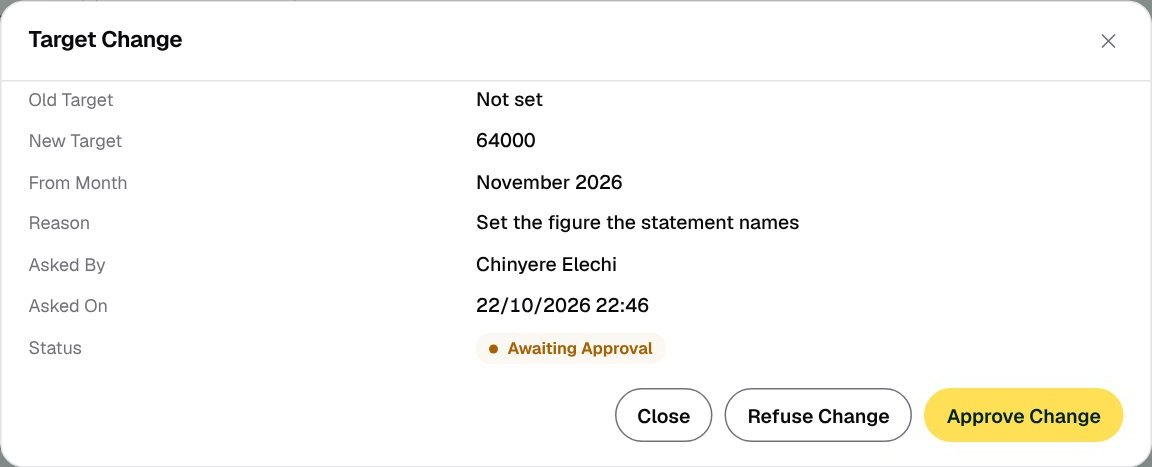
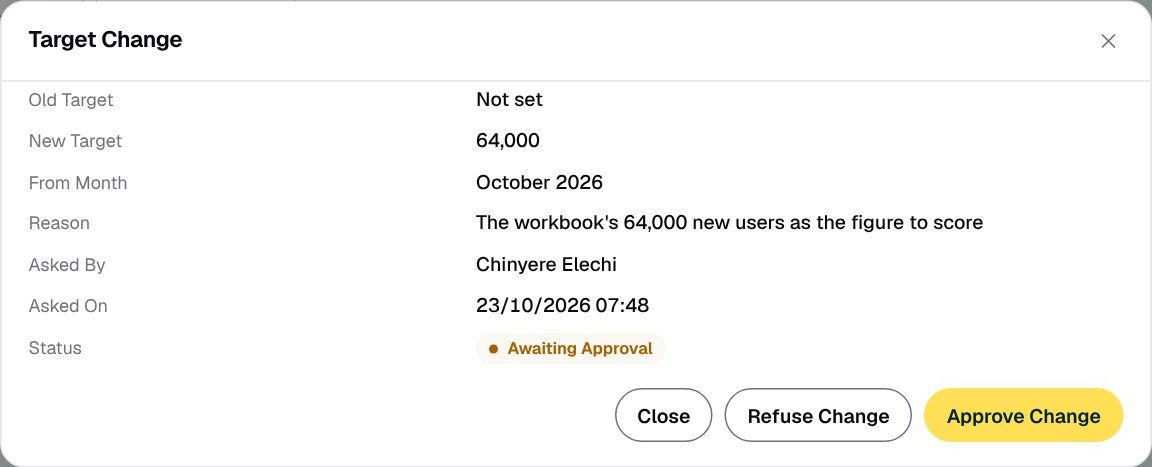
docs(performance): the training guide after PRs 132 and 133 (#134)
Set Up Quarter (with its screenshot), Edit and Delete on goals, objectives and key results,
Feeds, Set Target on TBC targets, a line's Change Target, Send Scorecard decided on Waiting On
You, Score Without Check-In and Withdraw Review, across pages 2 to 16; the key result panel and
the target change sheet retaken with figures formatted (64,000). Every page still fits A4.

Claude-Session: https://claude.ai/code/session_01KTTpJwtTQQVceC2MnB9bdJ

diff --git a/docs/manual/performance-guide/template.html b/docs/manual/performance-guide/template.html
@@ -311,7 +311,7 @@ table.t td .sub{display:block;font-size:7pt;color:var(--muted);margin-top:.3mm;}
         <tr><td class="k">Objective</td><td>What a function or the company sets out to achieve this quarter (BM-O1)</td><td class="k">Line</td><td>One row of a scorecard, with its target, weight and source</td></tr>
         <tr><td class="k">Key result</td><td>A measurable result under an objective (BM-KR1.3)</td><td class="k">Auto</td><td>A line the system scores itself; the reviewer may change it with a reason</td></tr>
         <tr><td class="k">KPI</td><td>A function's operational measure, Met or Not Met each month (BM-K02)</td><td class="k">Commitment</td><td>A task promised for the month, with acceptance criteria and a fixed original date</td></tr>
-        <tr><td class="k">TBC</td><td>A provisional target, locked on the quarter's lock date</td><td class="k">Check-in</td><td>Each person's monthly report on their own lines</td></tr>
+        <tr><td class="k">TBC</td><td>A provisional target: Set Target until the quarter's lock date</td><td class="k">Check-in</td><td>Each person's monthly report on their own lines</td></tr>
         <tr><td class="k">Scored From</td><td>A company key result that takes its figures from one function key result</td><td class="k">Review</td><td>The reviewer's scores, approved by second level and closed by HR</td></tr>
         <tr><td class="k">Binding</td><td>Approved by the CEO: targets change only through Change Target</td><td class="k">Score to date</td><td>The weighted score of the lines scored so far, from 0 to 1</td></tr>
       </tbody>
@@ -328,11 +328,11 @@ table.t td .sub{display:block;font-size:7pt;color:var(--muted);margin-top:.3mm;}
     <table class="t screens">
       <thead><tr><th style="width:36mm">Screen</th><th style="width:40mm">Where</th><th style="width:38mm">Who</th><th>What happens there</th></tr></thead>
       <tbody>
-        <tr><td class="k">Performance · Goals</td><td class="path">Performance › Goals</td><td>Everyone reads; heads, Management and the CEO set</td><td>The OKR tree, Plan Approval (status, Send Plan), Waiting On You, Report Month, Confirm Score, Change Target</td></tr>
-        <tr><td class="k">Performance · Scorecards</td><td class="path">Performance › Scorecards</td><td>Managers, HR, CEO; staff see their own</td><td>Every scorecard, its sections and lines; New Scorecard; Agree Scorecard; Change Reviewer</td></tr>
+        <tr><td class="k">Performance · Goals</td><td class="path">Performance › Goals</td><td>Everyone reads; heads, Management and the CEO set</td><td>The OKR tree and its edits, Manage Quarters, Plan Approval (Send Plan), Waiting On You, Report Month, Confirm Score, Set Target, Change Target</td></tr>
+        <tr><td class="k">Performance · Scorecards</td><td class="path">Performance › Scorecards</td><td>Managers, HR, CEO; staff see their own</td><td>Every scorecard, its sections and lines; New Scorecard; Send Scorecard; Agree Scorecard; Change Reviewer; a line's Change Target</td></tr>
         <tr><td class="k">… Commitments view</td><td class="path">Scorecards › Commitments</td><td>Reviewers, heads, CEO</td><td>The month's commitments and their states; Approve Month; Export Report</td></tr>
         <tr><td class="k">Performance · KPIs</td><td class="path">Performance › KPIs</td><td>Everyone reads; heads edit their own</td><td>Each function's KPIs with formula, target and source; Record Actual</td></tr>
-        <tr><td class="k">Performance · Reviews</td><td class="path">Performance › Reviews</td><td>Reviewers, second level, HR</td><td>The month's round; each review through its chain; PIPs</td></tr>
+        <tr><td class="k">Performance · Reviews</td><td class="path">Performance › Reviews</td><td>Reviewers, second level, HR</td><td>The month's round; each review through its chain; Score Without Check-In; Withdraw Review; PIPs</td></tr>
         <tr><td class="k">Performance · Analytics</td><td class="path">Performance › Analytics</td><td>Managers, Management, CEO</td><td>Scores by month, key results by status, ratings, on-time figures, people</td></tr>
         <tr><td class="k">My Performance</td><td class="path">Self-Service › My Performance</td><td>Every employee</td><td>My score, scorecard, check-in, commitments and reviews; Agree Scorecard</td></tr>
         <tr><td class="k">Workspace · Tasks</td><td class="path">My Workspace › Tasks</td><td>Everyone</td><td>Commitments are tasks; Counts Towards; Send Commitments; initiatives and corrective actions arrive as tasks</td></tr>
@@ -344,12 +344,12 @@ table.t td .sub{display:block;font-size:7pt;color:var(--muted);margin-top:.3mm;}
         <tr><td class="k">Settings · Approvals</td><td class="path">Settings › Approvals</td><td>Administrators</td><td>The four flows: Quarter Plan, Monthly Review, Monthly Commitments, Target Change</td></tr>
         <tr><td class="k">People · Organogram</td><td class="path">People › Organogram</td><td>People administrators</td><td>Line managers and open seats, with each department's head set at set-up, decide who reviews and approves; dotted lines decide who gives input</td></tr>
         <tr><td class="k">Notifications</td><td class="path">The bell, top right</td><td>Everyone</td><td>Plans waiting, scorecards to agree, check-ins due, reviews waiting, commitments approved</td></tr>
-        <tr><td class="k">Search</td><td class="path">Ctrl K · ⌘K</td><td>Everyone</td><td>Find key results, objectives, goals, KPIs, scorecards and reviews; New Scorecard, Report Month, Start Check-In, New Commitment</td></tr>
+        <tr><td class="k">Search</td><td class="path">Ctrl K · ⌘K</td><td>Everyone</td><td>Find key results, objectives, goals, KPIs, scorecards and reviews; New Scorecard, Report Month, Start Check-In, New Commitment, Set Up Quarter</td></tr>
       </tbody>
     </table>
     </div>
     <div class="g2 wide-l" style="margin-top:3.4mm">
-      <figure class="shot cap-h" style="--h:42mm"><img src="{{img:search}}" alt="Search for BM-KR1"><figcaption><b>Search</b>Ctrl K, then a code or a word: every key result, objective, KPI and scorecard is one search away.</figcaption></figure>
+      <figure class="shot cap-h" style="--h:37mm"><img src="{{img:search}}" alt="Search for BM-KR1"><figcaption><b>Search</b>Ctrl K, then a code or a word: every key result, objective, KPI and scorecard is one search away.</figcaption></figure>
       <div class="note"><h4>Where Performance lives</h4>Sidebar: <b>People › Performance</b>, five tabs: <span class="ui">Goals</span> <span class="ui">Scorecards</span> <span class="ui">KPIs</span> <span class="ui">Reviews</span> <span class="ui">Analytics</span>. A person sees by role: staff the OKR tree and their own scorecard; a manager their team; Operations &amp; People and the CEO everyone. Phone: <b>More › Performance</b>.</div>
     </div>
   </div></div>
@@ -366,13 +366,13 @@ table.t td .sub{display:block;font-size:7pt;color:var(--muted);margin-top:.3mm;}
       <tbody>
         <tr><td class="k">Employee</td><td>Their own scorecard, check-ins, reviews and commitments; the whole OKR tree and every KPI</td><td>Agree Scorecard, Start Check-In, Send Commitments, Support Needed</td></tr>
         <tr><td class="k">Line manager</td><td>Their reporting line</td><td>Drafts scorecards, scores reviews, asks the dotted-line manager for input, approves their people's commitments, is second level for the reviewers under them</td></tr>
-        <tr><td class="k">Head of department</td><td>Their function</td><td>All a manager does, plus the function's objectives, key results and KPIs, Report Month and Send Plan</td></tr>
+        <tr><td class="k">Head of department</td><td>Their function</td><td>All a manager does, plus the function's objectives, key results and KPIs, Report Month, Set Target and Send Plan</td></tr>
         <tr><td class="k">Management · Program Manager</td><td>Everyone</td><td>The company's objectives and key results; approves the plan first for the heads they manage</td></tr>
-        <tr><td class="k">Operations &amp; People</td><td>Everyone</td><td>Approves the plan second; closes reviews; changes a reviewer; Mark Conduct; PIPs; probation outcomes; imports; opens and closes rounds</td></tr>
+        <tr><td class="k">Operations &amp; People</td><td>Everyone</td><td>Approves the plan second; closes reviews; changes a reviewer; Mark Conduct; PIPs; probation outcomes; imports; sets up quarters; opens and closes rounds; withdraws a leaver's review</td></tr>
         <tr><td class="k">CEO</td><td>Everyone</td><td>Organisational goals; approves the plan last and every target change; Confirm Score; the heads' commitments; Analytics</td></tr>
       </tbody>
     </table>
-    <p class="small" style="margin-top:1.4mm">A dotted-line manager gives input on a review, never an approval. Who reviews whom comes from People: the reviewer is the person's line manager, or the person above a vacant seat. A plan stage or target change reaches its approver on the bell and Home › Need You, and is decided on <span class="path">Goals › Waiting On You</span> (see 7.1).</p>
+    <p class="small" style="margin-top:1.4mm">A dotted-line manager gives input on a review, never an approval. Who reviews whom comes from People: the reviewer is the person's line manager, or the person above a vacant seat. A plan stage, a mid-quarter scorecard or a target change reaches its approver on the bell and Home › Need You, and is decided on <span class="path">Goals › Waiting On You</span> (see 7.1).</p>
 
     <h2 class="sec"><span class="n">3.2</span>What Performance connects to</h2>
     <div class="hub">
@@ -403,9 +403,10 @@ table.t td .sub{display:block;font-size:7pt;color:var(--muted);margin-top:.3mm;}
         <h3 class="sub">Reading the screen</h3>
         <ul class="ticks">
           <li><b>The figures</b>: Company Score (the company's, for the quarter), then On Track, In Recovery and Awaiting Report for the function picked in <span class="ui">Function</span>.</li>
-          <li><b>Organisational Goals</b>: the year's goals, recorded by the CEO with <span class="ui">New Goal</span>.</li>
+          <li><b>Organisational Goals</b>: the year's goals, recorded by the CEO with <span class="ui">New Goal</span> and changed with <span class="ui">Edit Goal</span>.</li>
           <li><b>Codes</b> follow the workbook: CO for the company, then TBO, BM, PG and PC for the functions. They freeze when the plan binds.</li>
-          <li><span class="pill plan">TBC</span> a provisional target. It locks on the quarter's lock date; a figure is set with Change Target.</li>
+          <li><span class="pill plan">TBC</span> a provisional target. Until the quarter's lock date its owner or the head sets it with <span class="ui">Set Target</span>, no approval needed; after that, Change Target.</li>
+          <li><b>Editing</b>: while the plan is draft or returned, an objective has <span class="ui">Edit Objective</span> and <span class="ui">Delete Objective</span>, a key result <span class="ui">Edit Key Result</span> and <span class="ui">Delete Key Result</span>. A key result's <b>Feeds</b> names the company key results it serves.</li>
           <li><b>Scored From</b>: a company key result wholly delivered by one function key result takes its figures, so nothing is entered twice.</li>
         </ul>
       </div>
@@ -445,9 +446,9 @@ table.t td .sub{display:block;font-size:7pt;color:var(--muted);margin-top:.3mm;}
       </div>
     </div>
     <div class="g2" style="margin-top:3mm">
-      <div class="note warn"><h4>Targets written in words</h4>Most Q4 key results state their target in words ("At least 64,000 new users"). Until a figure is set, Report Month keeps the actual and the update but cannot score them. A figure is set with <b>Change Target</b>, which the CEO approves on <span class="path">Goals › Waiting On You</span>; until then the key result shows Change Waiting. Dated key results need no figure: Done by the finish date scores 1.</div>
+      <div class="note warn"><h4>Targets written in words</h4>Most Q4 key results state their target in words ("At least 64,000 new users"). Until a figure is set, Report Month keeps the actual and the update but cannot score them. On a TBC key result its owner or head sets the figure with <b>Set Target</b> until the lock date, no approval needed. Any other figure goes through <b>Change Target</b>, which the CEO approves on <span class="path">Goals › Waiting On You</span>. Dated key results need no figure: Done by the finish date scores 1.</div>
       <div class="try"><div class="hd"><span class="tag">Try it</span><span class="role">Head of department, then the CEO</span></div>
-        <ol><li><span class="ui">Report Month</span>: a dated key result, Status Done, with an update.</li><li>As the CEO, open it › <span class="ui">Confirm Score</span>.</li><li>On a key result with a target in words, <span class="ui">Change Target</span>: figure, from month, reason.</li><li>As the CEO, <span class="path">Goals › Waiting On You</span> › the change › <span class="ui">Approve Change</span>.</li></ol>
+        <ol><li><span class="ui">Report Month</span>: a dated key result, Status Done, with an update.</li><li>As the CEO, open it › <span class="ui">Confirm Score</span>.</li><li>On a key result with a target in words: <span class="ui">Set Target</span> if it is TBC, otherwise <span class="ui">Change Target</span> (figure, from month, reason).</li><li>As the CEO, <span class="path">Goals › Waiting On You</span> › the change › <span class="ui">Approve Change</span>.</li></ol>
         <div class="see"><b>You should see</b> the dated key result scored 1.00, Good, then confirmed; the function's score on Analytics; the new target, with Was showing the old one.</div>
       </div>
     </div>
@@ -500,9 +501,9 @@ table.t td .sub{display:block;font-size:7pt;color:var(--muted);margin-top:.3mm;}
     <div class="g2 wide-l">
       <div>
         <ol class="steps">
-          <li><b>The quarter is set up</b>: its dates, lock date and scoring rules. For now JBS Praxis sets it up on request (Q1 2027 opens before January).</li>
+          <li><b>Operations &amp; People set up the quarter</b>: <span class="path">Goals › Manage Quarters › Set Up Quarter</span>, its dates, lock date and scoring rules, starting from the last quarter's.</li>
           <li><b>The CEO records the year's goals</b>: <span class="path">Goals › New Goal › Organisational Goal</span>.</li>
-          <li><b>Management set the company's objectives and key results; each head sets the function's</b> (<span class="ui">New Goal</span> › Objective or Key Result). The workbook import links function key results to the company key results they feed; linking them on a screen is not built yet.</li>
+          <li><b>Management set the company's objectives and key results; each head sets the function's</b> (<span class="ui">New Goal</span> › Objective or Key Result; Edit and Delete while the plan is draft or returned). A key result's Feeds names the company key results it serves.</li>
           <li><b>Managers draft scorecards</b>: <span class="path">Scorecards › New Scorecard</span>, pick the <span class="ui">Employee</span> and <span class="ui">Lines From</span> (Last Quarter or Start Blank), then <span class="ui">Edit Lines</span>. Never one's own.</li>
           <li><b>The head sends the plan</b>: the Plan Approval card on Goals › <span class="ui">Send Plan</span>. It refuses an empty plan, a section whose line weights miss its share (60, 25, 15), a Rebalance, or a link to another quarter.</li>
           <li><b>Approval</b>: the head's line manager, then Operations &amp; People, then the CEO (7.1 says when a stage is skipped). Each approver is told on the bell and Home › Need You, and decides on <span class="path">Goals › Waiting On You</span>: <span class="ui">Approve Plan</span>, or <span class="ui">Request Changes</span> with a reason, which returns it to the head.</li>
@@ -516,7 +517,7 @@ table.t td .sub{display:block;font-size:7pt;color:var(--muted);margin-top:.3mm;}
       </div>
       <div class="stack">
         <figure class="shot"><img src="{{img:new-scorecard}}" alt="New Scorecard"><figcaption><b>New Scorecard</b>Pick the person and where the lines come from.</figcaption></figure>
-        <figure class="shot"><img src="{{img:plan-draft}}" alt="Plan Approval card"><figcaption><b>Plan Approval</b>A draft plan says what stops it being sent.</figcaption></figure>
+        <figure class="shot"><img src="{{img:quarter-setup}}" alt="Set Up Quarter"><figcaption><b>Set Up Quarter</b>Dates and lock date first, then the scoring rules, copied from the last quarter.</figcaption></figure>
         <figure class="shot"><img src="{{img:plan-sheet}}" alt="A quarter plan waiting for the CEO"><figcaption><b>Quarter Plan</b>Opened from Goals › Waiting On You: who sent it, the stages so far, Request Changes or Approve Plan.</figcaption></figure>
       </div>
     </div>
@@ -530,7 +531,7 @@ table.t td .sub{display:block;font-size:7pt;color:var(--muted);margin-top:.3mm;}
         <tr><td class="k">Monthly Review</td><td>Second Level › Operations &amp; People</td><td>Second level, when the reviewer is the CEO</td></tr>
       </tbody>
     </table>
-    <p class="small" style="margin-top:1.2mm">All four are decided on screen and reach their approvers on the bell and Home › Need You. Quarter Plan and Target Change are decided on <span class="path">Goals › Waiting On You</span>; a refusal needs a reason. Administrators change stages and deadlines on <span class="path">Settings › Approvals</span>; a request keeps the version it started on.</p>
+    <p class="small" style="margin-top:1.2mm">All four are decided on screen and reach their approvers on the bell and Home › Need You. Quarter Plan (and a mid-quarter scorecard sent alone) and Target Change are decided on <span class="path">Goals › Waiting On You</span>; a refusal needs a reason. Administrators change stages and deadlines on <span class="path">Settings › Approvals</span>; a request keeps the version it started on.</p>
   </div></div>
   <div class="pf"><span>JBS Praxis · Performance Management · Training and test guide</span><span>MyCity App ERP · 08 / 16</span></div>
 </section>
@@ -657,7 +658,7 @@ table.t td .sub{display:block;font-size:7pt;color:var(--muted);margin-top:.3mm;}
 <section class="page" id="p13">
   <div class="strip"><div class="t"><span class="no">12</span>The review: reviewer, second level, <em>HR</em></div><div class="r">Performance › Reviews</div></div>
   <div class="pc"><div class="inner">
-    <figure class="shot cap-h" style="--h:66mm"><img src="{{img:reviews}}" alt="Reviews"><figcaption><b>Reviews</b>The round's figures, Waiting On You (here two reviews for the CEO to approve as second level) and every review with its stage and due date.</figcaption></figure>
+    <figure class="shot cap-h" style="--h:58mm"><img src="{{img:reviews}}" alt="Reviews"><figcaption><b>Reviews</b>The round's figures, Waiting On You (here two reviews for the CEO to approve as second level) and every review with its stage and due date.</figcaption></figure>
     <div class="chain" style="margin-top:2.6mm"><span>Check-In</span><i>›</i><span class="on">Reviewer · 5th</span><i>›</i><span>Second Level · 7th</span><i>›</i><span>HR · 10th business day</span><i>›</i><span>Closed</span></div>
     <div class="g2 wide-r">
       <div class="stack">
@@ -665,11 +666,11 @@ table.t td .sub{display:block;font-size:7pt;color:var(--muted);margin-top:.3mm;}
       </div>
       <div>
         <h3 class="sub">Reviewer</h3>
-        <p>Sees the check-in beside each line. Sets each <b>final score</b> (a reason where it differs from the proposed), a <b>corrective action</b> with owner and date for each missed line (it becomes a task) and a comment. <span class="ui">Save Scores</span>, <span class="ui">Return Check-In</span> (back to the employee with a reason) or <span class="ui">Submit Review</span>. <span class="ui">Ask For Input</span> asks the dotted-line manager first.</p>
+        <p>Sees the check-in beside each line. Sets each <b>final score</b> (a reason where it differs from the proposed), a <b>corrective action</b> with owner and date for each missed line (it becomes a task) and a comment. <span class="ui">Save Scores</span>, <span class="ui">Return Check-In</span> (back to the employee with a reason) or <span class="ui">Submit Review</span>. <span class="ui">Ask For Input</span> asks the dotted-line manager first. Once the check-in's due date passes, <span class="ui">Score Without Check-In</span>, with a reason.</p>
         <h3 class="sub">Second level</h3>
         <p>The reviewer's own line manager: <span class="ui">Approve</span> or <span class="ui">Request Changes</span>. Skipped when the reviewer is the CEO.</p>
         <h3 class="sub">HR (Operations &amp; People)</h3>
-        <p><span class="ui">Close Review</span> writes the score to date and rating onto the scorecard, files the PDF and tells the employee. <span class="ui">Mark Conduct</span> records a confirmed breach, which caps the rating at Partly Meets.</p>
+        <p><span class="ui">Close Review</span> writes the score to date and rating onto the scorecard, files the PDF and tells the employee. <span class="ui">Mark Conduct</span> records a confirmed breach, which caps the rating at Partly Meets. <span class="ui">Withdraw Review</span> closes a leaver's review; it also closes by itself when People archive them.</p>
       </div>
     </div>
     <div class="g3" style="margin-top:3mm">
@@ -730,7 +731,7 @@ table.t td .sub{display:block;font-size:7pt;color:var(--muted);margin-top:.3mm;}
     <figure class="shot" style="margin-top:3mm"><img src="{{img:my-reviews}}" alt="My Reviews with a closed month"><figcaption><b>My Reviews</b>October closed: score 1.00, Exceeds. Cautions are issued in Queries &amp; Sanctions (Milestone 3).</figcaption></figure>
     <h2 class="sec"><span class="n">13.4</span>Questions people ask</h2>
     <div class="qa">
-      <div><b>"My target is wrong."</b>On a key result, its owner or head sends Change Target; once the CEO approves it, Was shows the old figure. On a scorecard line, its reviewer or the function's head opens the line on the scorecard › Change Target.</div>
+      <div><b>"My target is wrong."</b>Its owner or head sends Change Target on the key result (Set Target while it is TBC); a line's reviewer or head sends it on the line. Once approved, Was shows the old figure.</div>
       <div><b>"I do not agree with my scorecard."</b>Press Disagree With Reason on My Performance. It clears both agreements and goes back to your reviewer.</div>
       <div><b>"My commitment's date moved."</b>Rescope Commitment with a reason. The original date stays on record; once approved, it leaves the on-time count.</div>
       <div><b>"Why can my reviewer not see my check-in?"</b>Self first: your reviewer opens it only after you press Submit Check-In.</div>
@@ -780,7 +781,7 @@ table.t td .sub{display:block;font-size:7pt;color:var(--muted);margin-top:.3mm;}
       <tbody>
         <tr><td>1</td><td class="k">CEO</td><td>Goals › Function: Branding &amp; Marketing</td><td>The figures, Plan Approval Binding, the objectives</td><td class="c"><span class="box"></span></td></tr>
         <tr><td>2</td><td class="k">CEO</td><td>Open BM-KR1.3</td><td>Target, This Month, Initiatives, Rolls Up To</td><td class="c"><span class="box"></span></td></tr>
-        <tr><td>3</td><td class="k">Head</td><td>Change Target on a key result in words</td><td>On the CEO's Waiting On You</td><td class="c"><span class="box"></span></td></tr>
+        <tr><td>3</td><td class="k">Head</td><td>Change Target on a key result in words, not TBC</td><td>On the CEO's Waiting On You</td><td class="c"><span class="box"></span></td></tr>
         <tr><td>4</td><td class="k">Head</td><td>Report Month: a dated key result, Status Done, an update</td><td>Score 1.00, band Good</td><td class="c"><span class="box"></span></td></tr>
         <tr><td>5</td><td class="k">CEO</td><td>Open it › Confirm Score</td><td>Confirmed; the function's score on Analytics</td><td class="c"><span class="box"></span></td></tr>
         <tr><td>6</td><td class="k">Head</td><td>KPIs › a KPI › Record Actual: Met</td><td>The month under Months; Met Last Month rises</td><td class="c"><span class="box"></span></td></tr>
@@ -804,8 +805,8 @@ table.t td .sub{display:block;font-size:7pt;color:var(--muted);margin-top:.3mm;}
       <tbody>
         <tr><td class="k">Every employee</td><td>My Performance and Agree Scorecard; Start Check-In; commitments on Tasks; My Week and Support Needed</td><td>9 to 12</td></tr>
         <tr><td class="k">Line managers</td><td>Scorecards and New Scorecard; Approve Month; the review: Save Scores, Submit Review; Team This Week</td><td>7 to 10, 13</td></tr>
-        <tr><td class="k">Heads of department</td><td>Goals, Report Month, KPIs and Record Actual, Send Plan, Change Target</td><td>5 to 8</td></tr>
-        <tr><td class="k">Operations &amp; People</td><td>Open Round and Close Round on Reviews, Close Review, Mark Conduct, PIPs, Change Reviewer, Imports</td><td>8, 13, 14</td></tr>
+        <tr><td class="k">Heads of department</td><td>Goals, Report Month, KPIs and Record Actual, Send Plan, Set Target, Change Target</td><td>5 to 8</td></tr>
+        <tr><td class="k">Operations &amp; People</td><td>Set Up Quarter, Open and Close Round, Close Review, Withdraw Review, Mark Conduct, PIPs, Change Reviewer, Imports</td><td>8, 13, 14</td></tr>
         <tr><td class="k">CEO and Management</td><td>Organisational goals, Confirm Score, Approve Month for the heads, Analytics and Home</td><td>5, 6, 8, 9, 15</td></tr>
       </tbody>
     </table>
